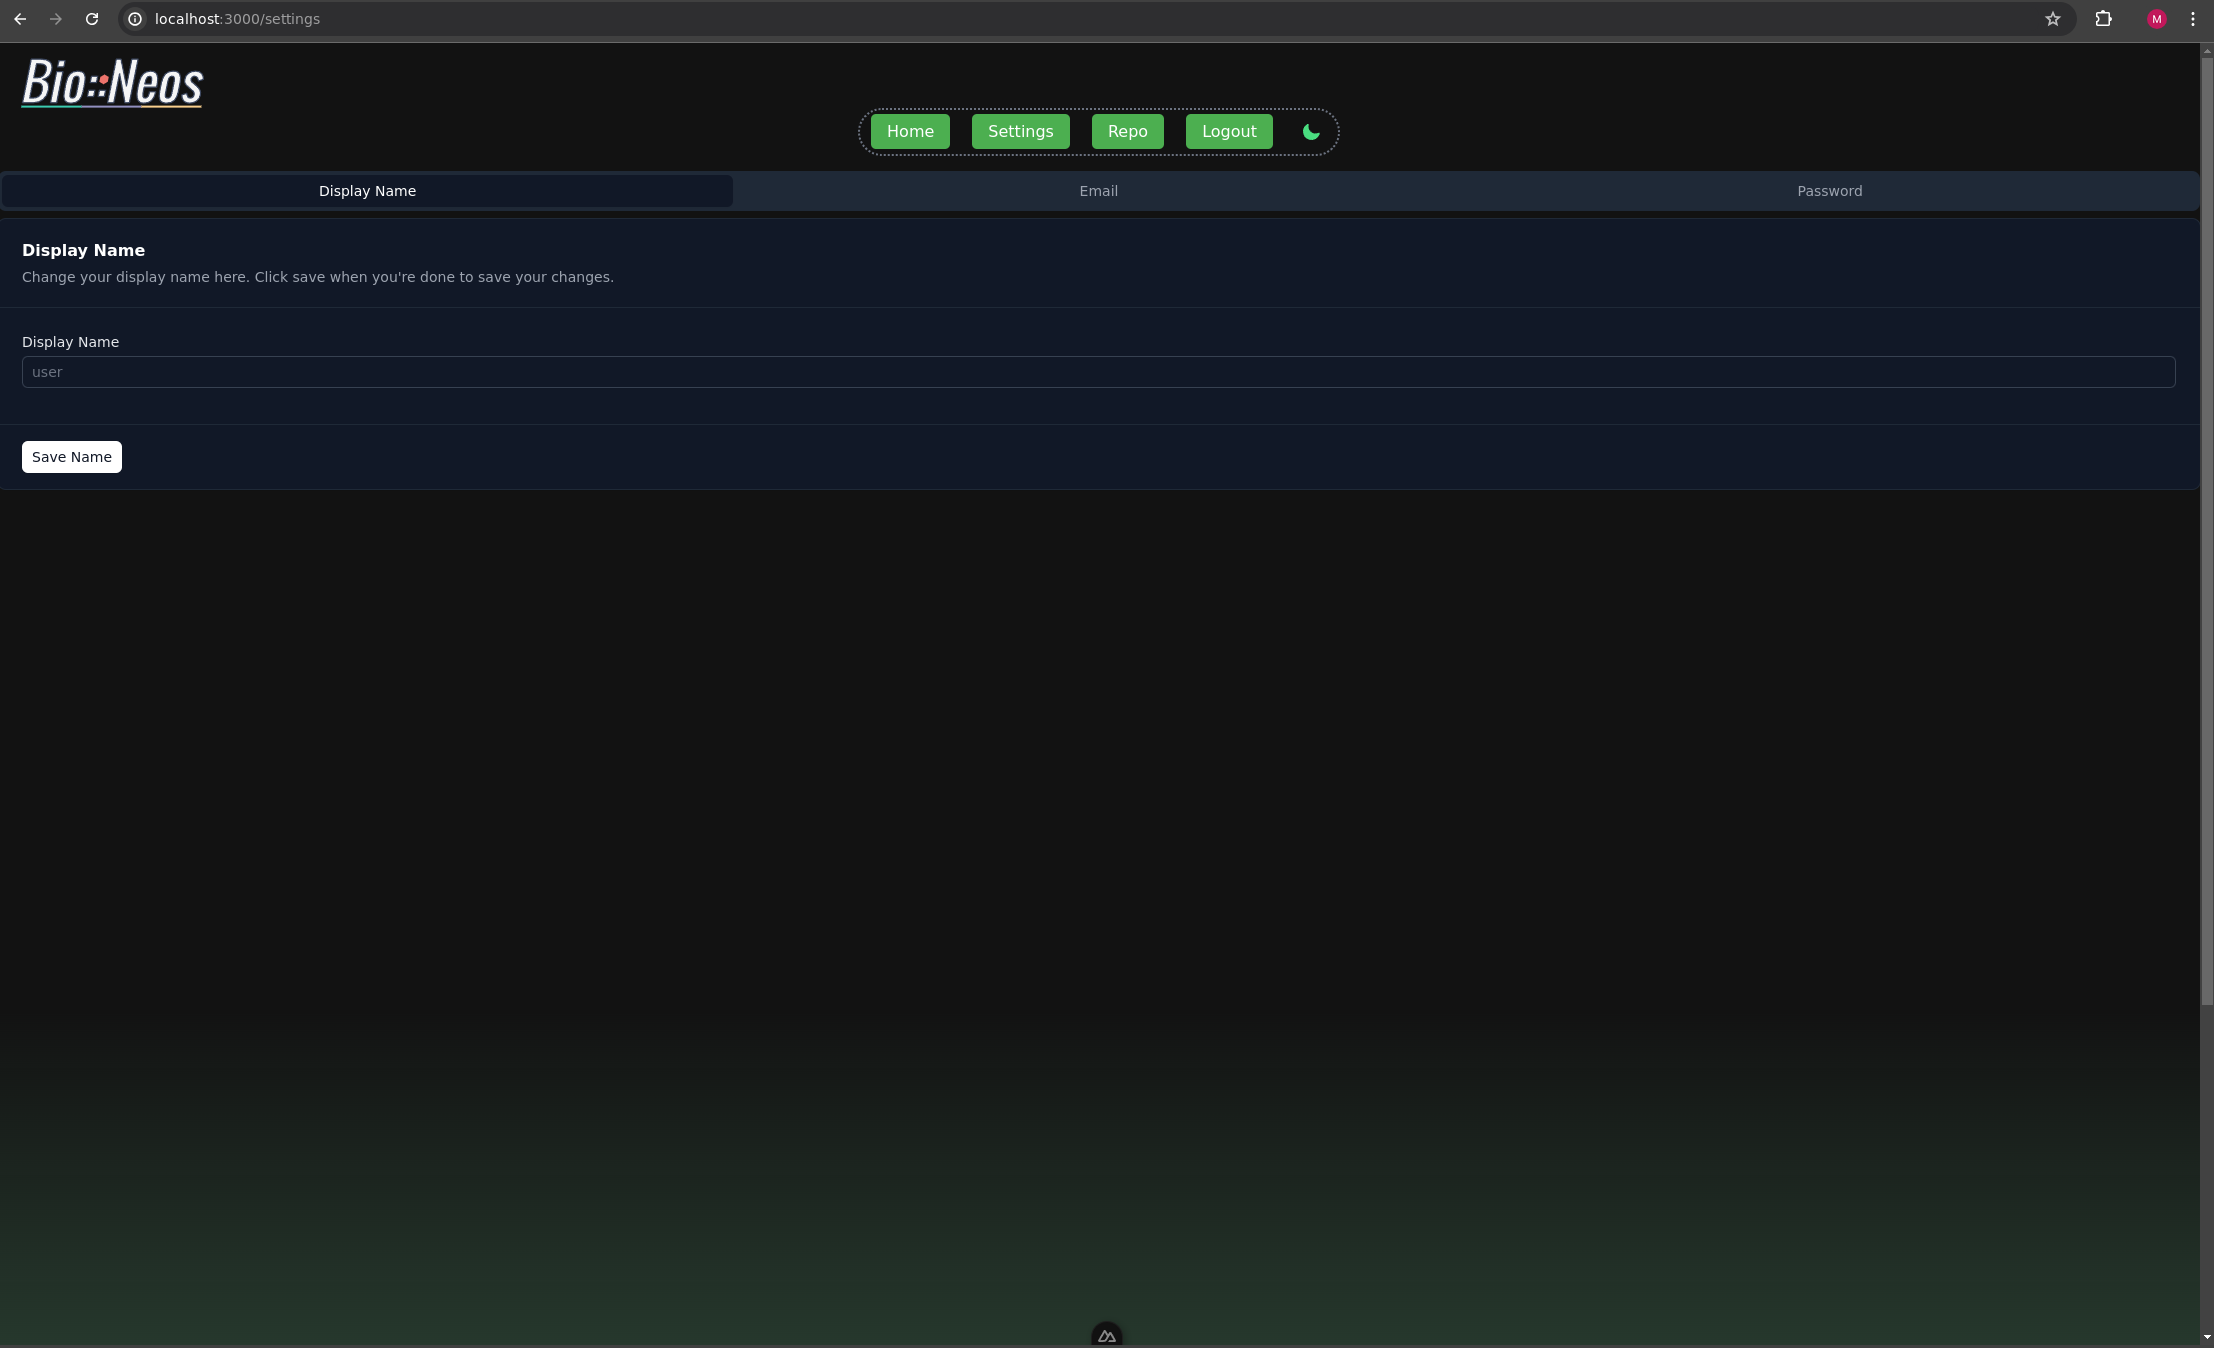
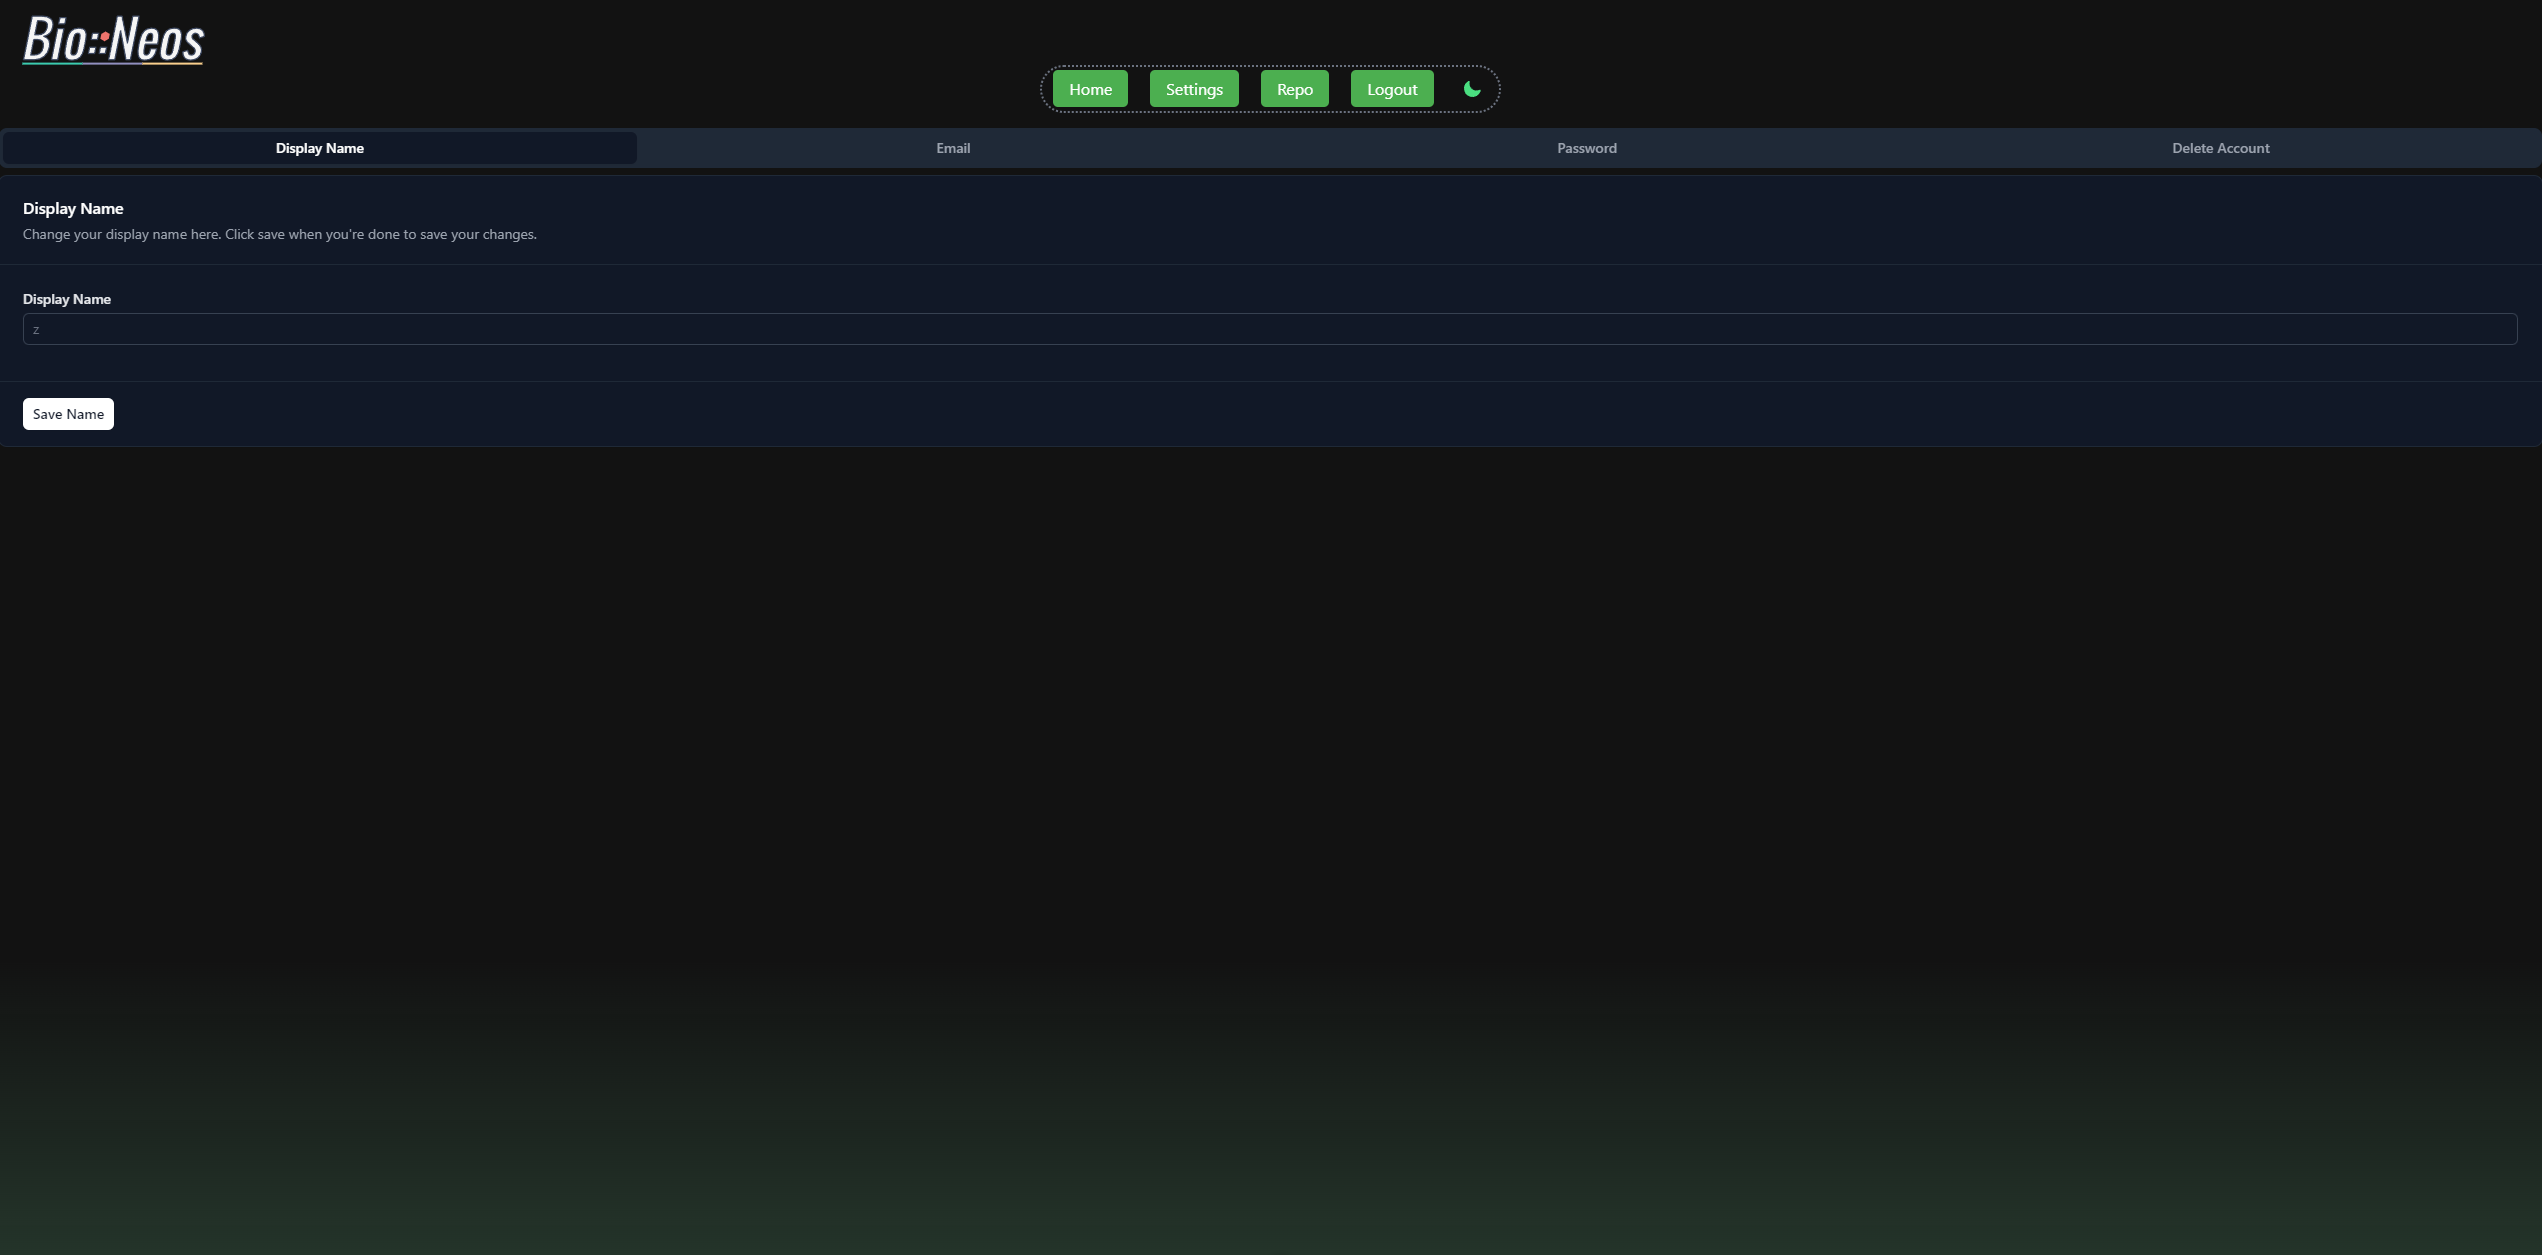
Updated README

diff --git a/Training-Project/README.md b/Training-Project/README.md
@@ -78,9 +78,18 @@ This is the page that appears when the application is first initialized.
   ![Welcome page](https://github.com/bioneos/training-project/blob/devel/Training-Project/README%20images/welcome.png)
 
 ### Settings Page
-- Allows users to change their display name and email in respective tabs, changes are saved to the database upon clicking ‘Save account’.
-- Allows users to reset their password in respective tab, changes are saved to the database upon clicking ‘Save changes’.
+# User's are able to:
+- Change their display name.
+- Change their account email.
+- Change their account password.
+- Delete their account.
 ![Settings page, display name tab](https://github.com/bioneos/training-project/blob/devel/Training-Project/README%20images/settings.png)
+
+![Settings page, email tab](https://github.com/bioneos/training-project/blob/devel/Training-Project/README%20images/settings1.png)
+
+![Settings page, password tab](https://github.com/bioneos/training-project/blob/devel/Training-Project/README%20images/settings2.png)
+
+![Settings page, delete account tab](https://github.com/bioneos/training-project/blob/devel/Training-Project/README%20images/settings3.png)
 
 
 ## Acknowledgements
